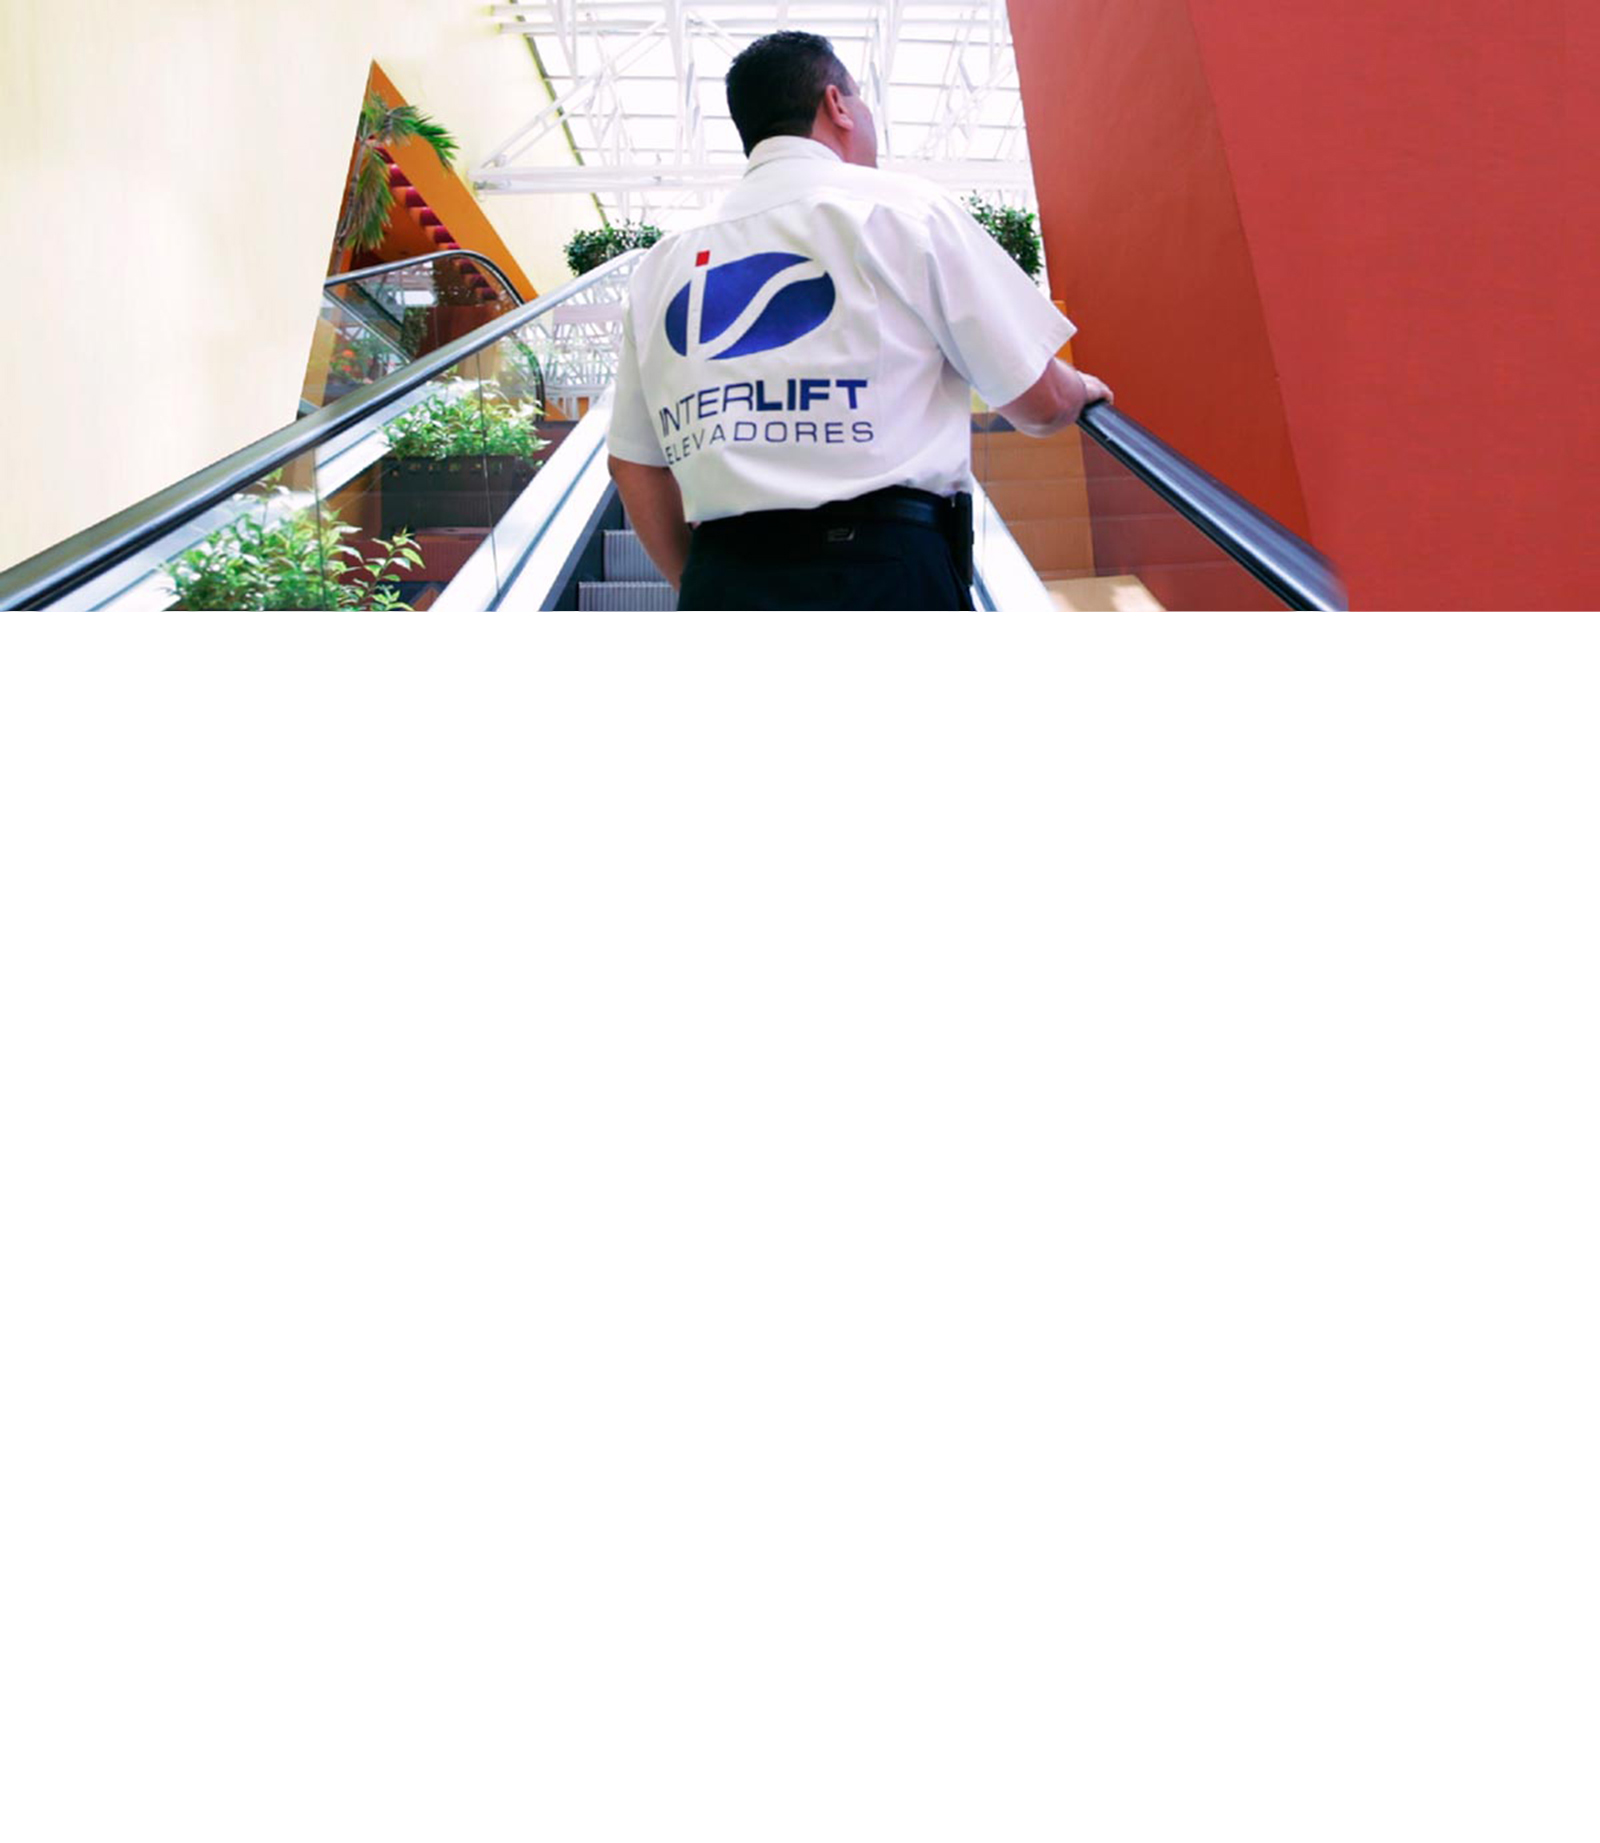
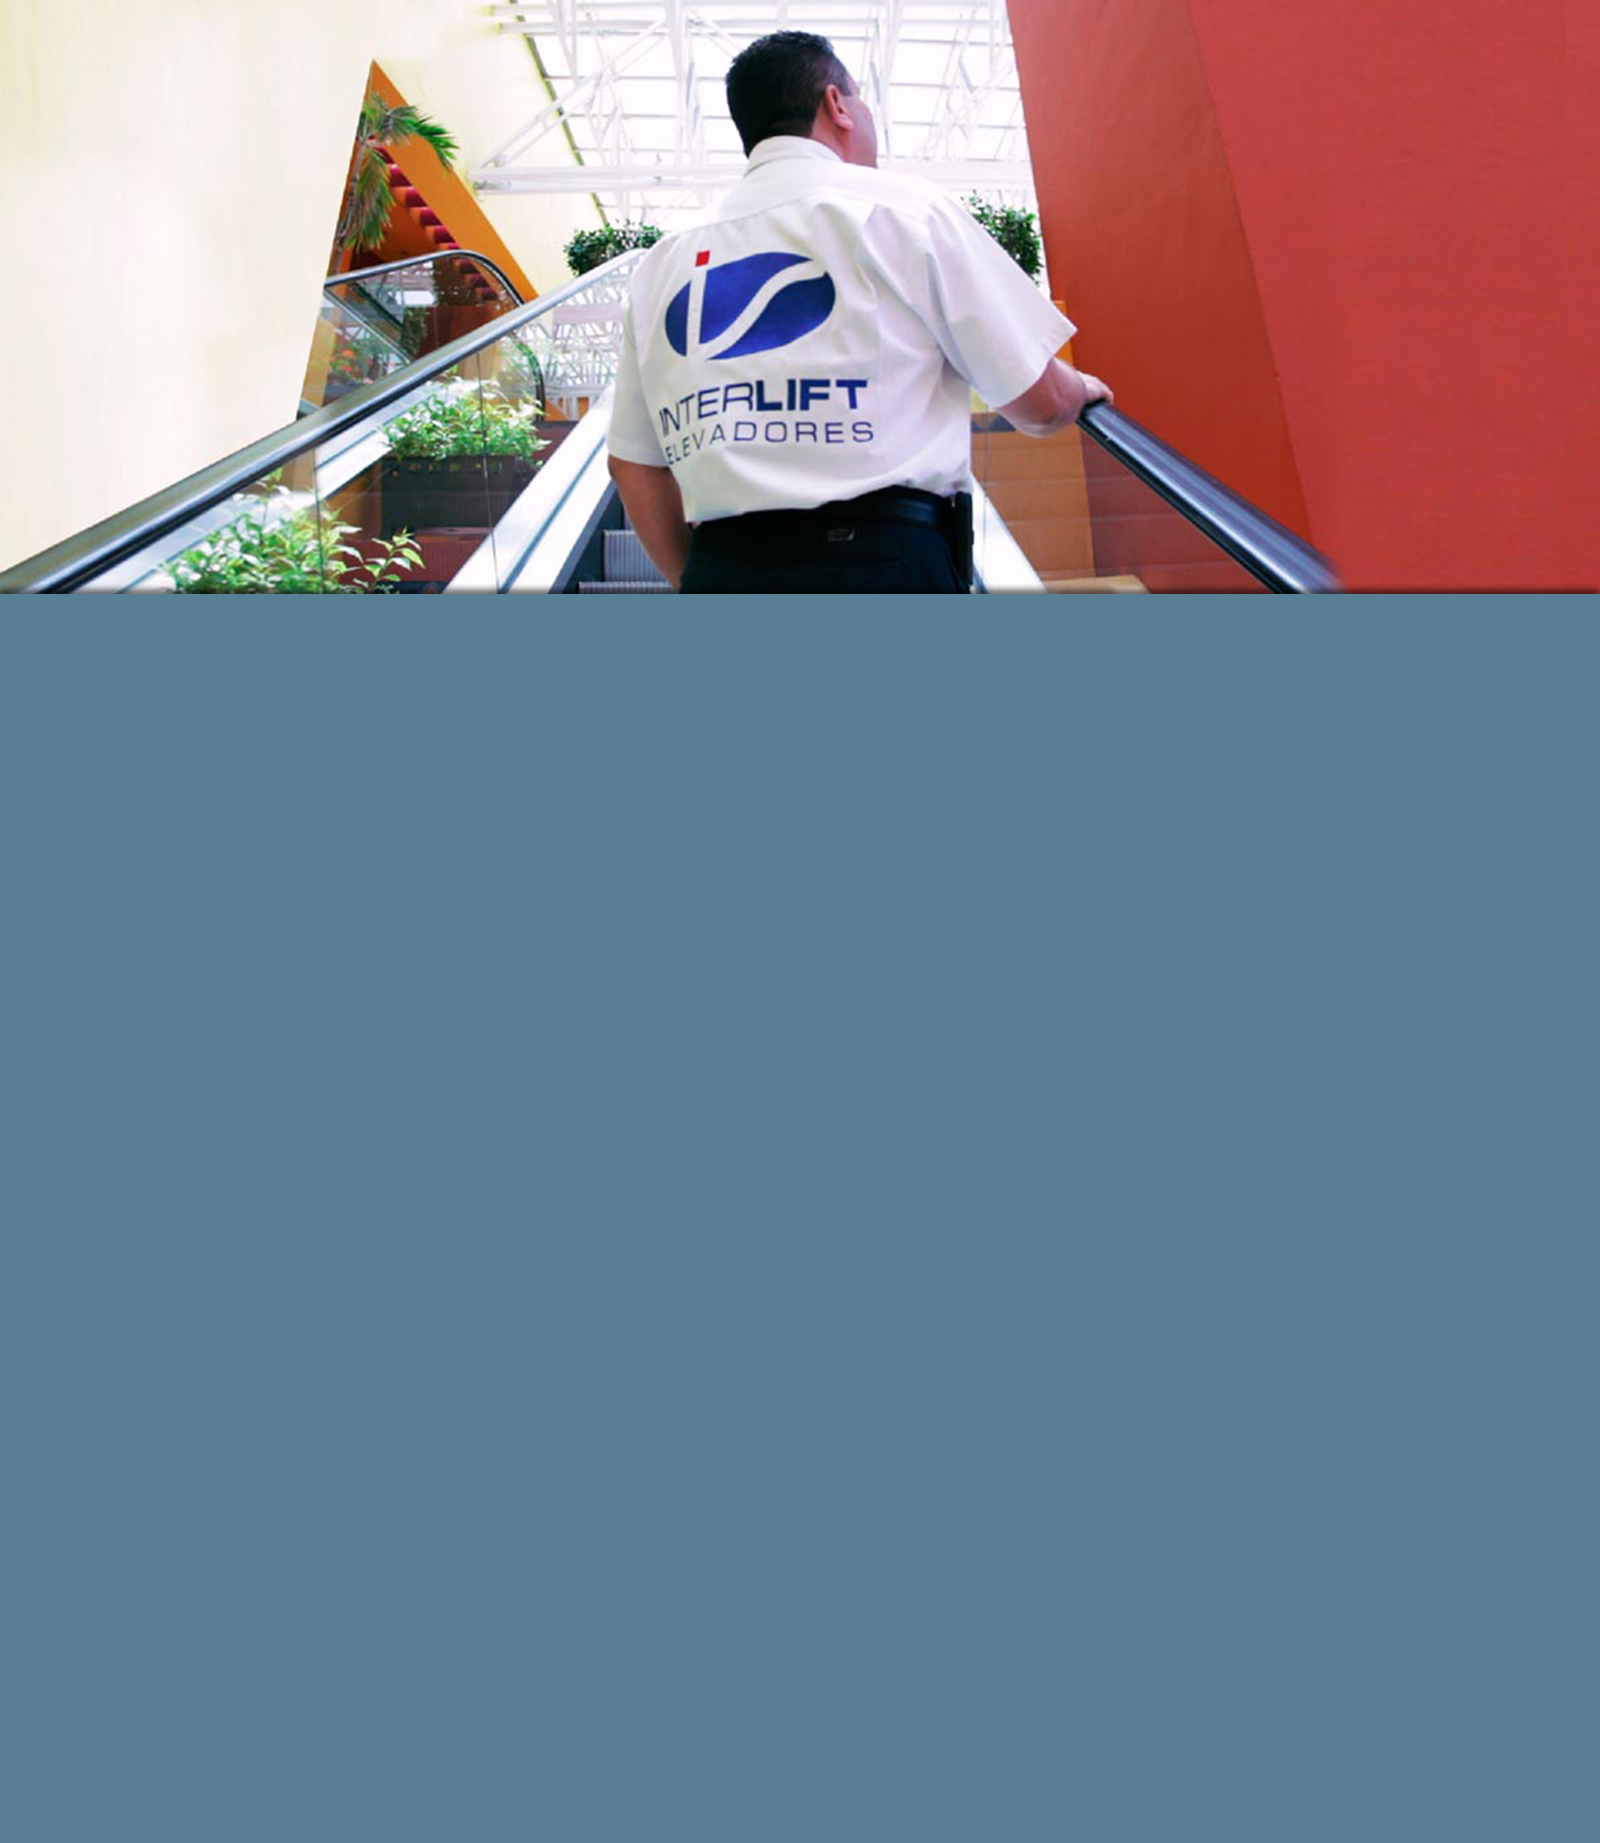
bgs
pngs

diff --git a/css/style.css b/css/style.css
@@ -935,7 +935,7 @@ img {
 .parallax-overlay-6 { background-image: url('../images/overlay-pattern.png'); }
 .parallax-overlay-7 { background-image: url('../images/overlay-pattern.png'); }
 
-.parallax-overlay-666 { background-image: url('../images/bginter.jpg'); background-position: center top; width: 100%;  }
+.parallax-overlay-666 { background-image: url('../images/bginter.png'); background-position: center top; width: 100%;  }
 .parallax-overlay-33 { background-color: #fff; }
 
 .parallax-overlay {
